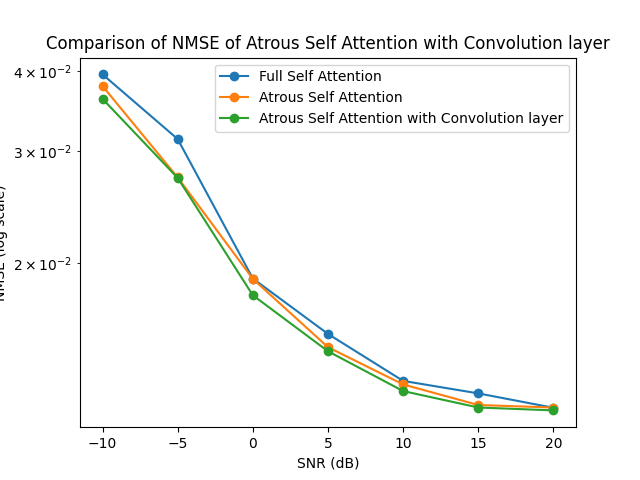
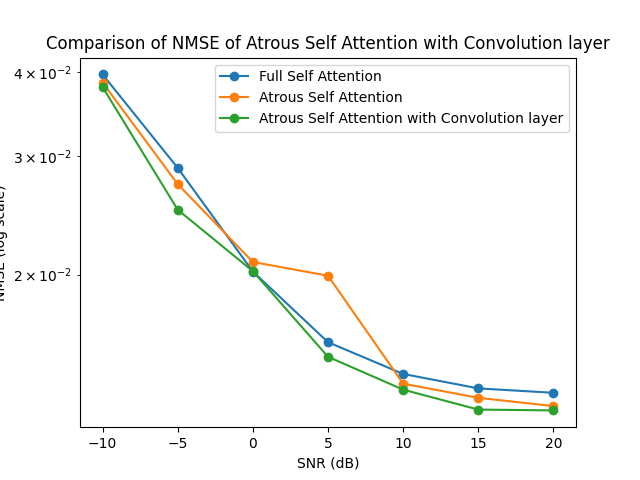
message

diff --git a/SPR-CNN/result-fft.py b/SPR-CNN/result-fft.py
@@ -6,32 +6,26 @@ x = [-10, -5, 0, 5, 10, 15, 20]
 # CNN, epochs = 200, lr = 0.0001, batch_size = 32
 y1 = [0.6419357114932095, 0.3948697806398535, 0.2653386565881674, 0.16621672269013613, 0.12786874896302208, 0.1266478453073014, 0.11196449103168699]
 
-# Transformers(Encoder * 2 + Decoder * 2, (16 * 32 * 4)), epochs = 200, lr = 0.0001, batch_size = 32
+# Transformers(Encoder * 2 + Decoder * 2, (16 * 32 * 4)), epochs = 400, lr = 0.0001, batch_size = 32
 # 自己寫的 multi-head self attention, Atrous Self Attention, ff layer 用 Conv1D
-y4 = [0.03621919825673103, 0.0272029098123312, 0.017789877951145172, 0.014526165090501308, 0.012576806358993053, 0.011850962415337563, 0.011727375909686089]
+y2 = [0.03798374906182289, 0.024973848834633827, 0.020242398604750633, 0.015106507577002048, 0.013501455076038837, 0.012612905353307724, 0.012577512301504612]
 
-# Transformers(Encoder * 2 + Decoder * 2, (16 * 32 * 4)), epochs = 200, lr = 0.0001, batch_size = 32
-# 自己寫的 multi-head self attention, Atrous Self Attention, ff layer 用 Conv1D, 使用 BatchNormalization
-y5 = [0.05668972060084343, 0.028094256296753883, 0.020573817193508148, 0.028254395350813866, 0.02500385418534279, 0.020342955365777016, 0.0244763046503067]
-
-# Transformers(Encoder * 2 + Decoder * 2, (16 * 32 * 4)), epochs = 200, lr = 0.0001, batch_size = 32
-# 自己寫的 multi-head self attention, Atrous Self Attention, ff layer 用 Conv1D, change norm position
-y7 = [0.039442263543605804, 0.02432405948638916, 0.021599117666482925, 0.016517218202352524, 0.015613597817718983, 0.014050054363906384, 0.012439227662980556]
-
+# Not yet!
 # Transformers(Encoder * 2 + Decoder * 2, (16 * 32 * 4)), epochs = 200, lr = 0.0001, batch_size = 32
 # 自己寫的 multi-head self attention, Atrous Self Attention, ff layer 用 Conv1D, 使用 fft in multi-head-attention
-y8 = [0.04002300277352333, 0.025759074836969376, 0.028633849695324898, 0.01591109298169613, 0.01619063876569271, 0.014287014491856098, 0.013909406960010529]
+y3 = [0.04002300277352333, 0.025759074836969376, 0.028633849695324898, 0.01591109298169613, 0.01619063876569271, 0.014287014491856098, 0.013909406960010529]
 
+# Not yet!
 # Transformers(Encoder * 2 + Decoder * 2, (16 * 32 * 4)), epochs = 200, lr = 0.0001, batch_size = 32
 # 自己寫的 multi-head self attention, Atrous Self Attention, ff layer 用 Conv1D
-# modality-aware transformers
+# Modality-aware Transformer
+y4 = [0.04002300277352333, 0.025759074836969376, 0.028633849695324898, 0.01591109298169613, 0.01619063876569271, 0.014287014491856098, 0.013909406960010529]
 
 # draw
 # plt.plot(x, y1, marker='o', label='CNN')
-plt.plot(x, y4, marker='o', label='Atrous Self Attention with Convolution layer')
-# plt.plot(x, y5, marker='o', label='Atrous Self Attention with Convolution layer and BatchNormalization')
-# plt.plot(x, y7, marker='o', label='Atrous Self Attention with Convolution layer with changing norm position')
-plt.plot(x, y8, marker='o', label='Atrous Self Attention with Convolution layer with fft in multi-head-attention')
+plt.plot(x, y2, marker='o', label='Atrous Self Attention with Convolution layer')
+plt.plot(x, y3, marker='o', label='Atrous Self Attention with Convolution layer with fft in multi-head-attention')
+plt.plot(x, y4, marker='o', label='Modality-aware Transformer')
 
 
 # set y-axis to log scale
@@ -58,32 +52,26 @@ x = [-10, -5, 0, 5, 10, 15, 20]
 # CNN, epochs = 200, lr = 0.0001, batch_size = 32
 y1 = [12.376030106733767, 13.813554657995969, 14.51362168247246, 15.027294189530807, 15.221216724747757, 15.227348121333408, 15.300884747531022]
 
-# Transformers(Encoder * 2 + Decoder * 2, (16 * 32 * 4)), epochs = 200, lr = 0.0001, batch_size = 32
+# Transformers(Encoder * 2 + Decoder * 2, (16 * 32 * 4)), epochs = 400, lr = 0.0001, batch_size = 32
 # 自己寫的 multi-head self attention, Atrous Self Attention, ff layer 用 Conv1D
-y4 = [15.523851843084003, 15.605638873813945, 15.690533174195762, 15.71985169518842, 15.73733479108248, 15.74383919925955, 15.744946353832843]
+y2 = [15.507790908162843, 15.625787491983507, 15.668462428433932, 15.714642721214037, 15.729044567012842, 15.73701119848958, 15.737328425151173]
 
-# Transformers(Encoder * 2 + Decoder * 2, (16 * 32 * 4)), epochs = 200, lr = 0.0001, batch_size = 32
-# 自己寫的 multi-head self attention, Atrous Self Attention, ff layer 用 Conv1D, 使用 BatchNormalization
-y5 = [15.336422811727001, 15.597574072960933, 15.665477346013974, 15.596124639155295, 15.625516490153341, 15.667556703768637, 15.630281030850368]
-
-# Transformers(Encoder * 2 + Decoder * 2, (16 * 32 * 4)), epochs = 200, lr = 0.0001, batch_size = 32
-# 自己寫的 multi-head self attention, Atrous Self Attention, ff layer 用 Conv1D, change norm position
-y7 = [15.494502152019606, 15.631655688035869, 15.65623851411047, 15.701972776773513, 15.710089680065902, 15.724123697543275, 15.738567858253838]
-
+# Not yet!
 # Transformers(Encoder * 2 + Decoder * 2, (16 * 32 * 4)), epochs = 200, lr = 0.0001, batch_size = 32
 # 自己寫的 multi-head self attention, Atrous Self Attention, ff layer 用 Conv1D, 使用 fft in multi-head-attention
-y8 = [15.489207487952974, 15.618692996837884, 15.592689694203141, 15.707417936913393, 15.704906880100955, 15.721997719195706, 15.725385431670285]
+y3 = [15.489207487952974, 15.618692996837884, 15.592689694203141, 15.707417936913393, 15.704906880100955, 15.721997719195706, 15.725385431670285]
 
+# Not yet!
 # Transformers(Encoder * 2 + Decoder * 2, (16 * 32 * 4)), epochs = 200, lr = 0.0001, batch_size = 32
 # 自己寫的 multi-head self attention, Atrous Self Attention, ff layer 用 Conv1D
-# modality-aware transformers
+# Modality-aware Transformer
+y4 = [15.489207487952974, 15.618692996837884, 15.592689694203141, 15.707417936913393, 15.704906880100955, 15.721997719195706, 15.725385431670285]
 
 # draw
 # plt.plot(x, y1, marker='o', label='CNN')
-plt.plot(x, y4, marker='o', label='Atrous Self Attention with Convolution layer')
-# plt.plot(x, y5, marker='o', label='Atrous Self Attention with Convolution layer and BatchNormalization')
-# plt.plot(x, y7, marker='o', label='Atrous Self Attention with Convolution layer with changing norm position')
-plt.plot(x, y8, marker='o', label='Atrous Self Attention with Convolution layer with fft in multi-head-attention')
+plt.plot(x, y2, marker='o', label='Atrous Self Attention with Convolution layer')
+plt.plot(x, y3, marker='o', label='Atrous Self Attention with Convolution layer with fft in multi-head-attention')
+plt.plot(x, y4, marker='o', label='Modality-aware Transformer')
 
 # set y-axis to log scale
 plt.yscale('log')

diff --git a/SPR-CNN/result-sparse-attention-and-convolution.py b/SPR-CNN/result-sparse-attention-and-convolution.py
@@ -7,20 +7,22 @@ x = [-10, -5, 0, 5, 10, 15, 20]
 # reshape type = (Nr, Nt, channel)
 # 自己寫的 multi-head attention
 # Full Self Attention
-y1 = [0.03957320749759674, 0.0313139446079731, 0.018902089446783066, 0.015466086566448212, 0.013048394583165646, 0.012472232803702354, 0.01183935534209013]
+y1 = [0.03965744748711586, 0.028810562565922737, 0.02021711692214012, 0.015879059210419655, 0.01424616202712059, 0.013560600578784943, 0.013357477262616158]
 
 # Transformers(Encoder * 2 + Decoder * 2), epochs = 200, lr = 0.0001, batch_size = 32
 # reshape type = (Nr, Nt, channel)
 # 自己寫的 multi-head attention
 # Atrous Self Attention
-y2 = [0.03793514147400856, 0.02725178748369217, 0.018875764682888985, 0.014742224477231503, 0.012882505543529987, 0.011958373710513115, 0.011849570088088512]
+y2 = [0.03856229782104492, 0.027260668575763702, 0.020888376981019974, 0.019930638372898102, 0.013781104236841202, 0.013130326755344868, 0.012763812206685543]
 
+# Not yet!
 # Transformers(Encoder * 2 + Decoder * 2), epochs = 200, lr = 0.0001, batch_size = 32
 # reshape type = (Nr, Nt, channel)
 # 自己寫的 multi-head attention
 # Local Self Attention
 y3 = [0.03928970918059349, 0.028576577082276344, 0.02001512609422207, 0.015685435384511948, 0.013992800377309322, 0.013519784435629845, 0.013477599248290062]
 
+# Not yet!
 # Transformers(Encoder * 2 + Decoder * 2), epochs = 200, lr = 0.0001, batch_size = 32
 # reshape type = (Nr, Nt, channel)
 # 自己寫的 multi-head attention
@@ -58,20 +60,22 @@ x = [-10, -5, 0, 5, 10, 15, 20]
 # reshape type = (Nr, Nt, channel)
 # 自己寫的 multi-head attention
 # Full Self Attention
-y1 = [15.493308527872895, 15.568404974771003, 15.680528308855868, 15.711414292671664, 15.733107185589379, 15.73827208055814, 15.74394318113315]
+y1 = [15.492540660394557, 15.59108972424448, 15.668690136608705, 15.707705615158078, 15.722364224883243, 15.72851409896477, 15.730335747297762]
 
 # Transformers(Encoder * 2 + Decoder * 2), epochs = 200, lr = 0.0001, batch_size = 32
 # reshape type = (Nr, Nt, channel)
 # 自己寫的 multi-head attention
 # Atrous Self Attention
-y2 = [15.50823359352834, 15.605196758612788, 15.680765231318805, 15.717912628820924, 15.734594474390205, 15.742876849423679, 15.743851673854186]
+y2 = [15.502521089647496, 15.60511641373273, 15.662643520026297, 15.671269878086171, 15.72653634091522, 15.732372591531984, 15.735658495479676]
 
+# Not yet!
 # Transformers(Encoder * 2 + Decoder * 2), epochs = 200, lr = 0.0001, batch_size = 32
 # reshape type = (Nr, Nt, channel)
 # 自己寫的 multi-head attention
 # Local Self Attention
 y3 = [15.495892652680121, 15.593208143779389, 15.670509142513932, 15.709444554223042, 15.724637358010378, 15.728880197789383, 15.729258483011803]
 
+# Not yet!
 # Transformers(Encoder * 2 + Decoder * 2), epochs = 200, lr = 0.0001, batch_size = 32
 # reshape type = (Nr, Nt, channel)
 # 自己寫的 multi-head attention
@@ -128,17 +132,17 @@ y1 = [0.6419357114932095, 0.3948697806398535, 0.2653386565881674, 0.166216722690
 # reshape type = (Nr, Nt, channel)
 # 自己寫的 multi-head attention
 # Full Self Attention
-y2 = [0.03957320749759674, 0.0313139446079731, 0.018902089446783066, 0.015466086566448212, 0.013048394583165646, 0.012472232803702354, 0.01183935534209013]
+y2 = [0.03965744748711586, 0.028810562565922737, 0.02021711692214012, 0.015879059210419655, 0.01424616202712059, 0.013560600578784943, 0.013357477262616158]
 
 # Transformers(Encoder * 2 + Decoder * 2), epochs = 200, lr = 0.0001, batch_size = 32
 # reshape type = (Nr, Nt, channel)
 # 自己寫的 multi-head attention
 # Atrous Self Attention
-y3 = [0.03793514147400856, 0.02725178748369217, 0.018875764682888985, 0.014742224477231503, 0.012882505543529987, 0.011958373710513115, 0.011849570088088512]
+y3 = [0.03856229782104492, 0.027260668575763702, 0.020888376981019974, 0.019930638372898102, 0.013781104236841202, 0.013130326755344868, 0.012763812206685543]
 
 # Transformers(Encoder * 2 + Decoder * 2, (16 * 32 * 4)), epochs = 400, lr = 0.0001, batch_size = 32
 # 自己寫的 multi-head self attention, Atrous Self Attention, ff layer 用 Conv1D
-y4 = [0.03621919825673103, 0.0272029098123312, 0.017789877951145172, 0.014526165090501308, 0.012576806358993053, 0.011850962415337563, 0.011727375909686089]
+y4 = [0.03798374906182289, 0.024973848834633827, 0.020242398604750633, 0.015106507577002048, 0.013501455076038837, 0.012612905353307724, 0.012577512301504612]
 
 # draw
 # plt.plot(x, y1, marker='o', label='CNN')
@@ -174,17 +178,17 @@ y1 = [12.376030106733767, 13.813554657995969, 14.51362168247246, 15.027294189530
 # reshape type = (Nr, Nt, channel)
 # 自己寫的 multi-head attention
 # Full Self Attention
-y2 = [15.493308527872895, 15.568404974771003, 15.680528308855868, 15.711414292671664, 15.733107185589379, 15.73827208055814, 15.74394318113315]
+y2 = [15.492540660394557, 15.59108972424448, 15.668690136608705, 15.707705615158078, 15.722364224883243, 15.72851409896477, 15.730335747297762]
 
 # Transformers(Encoder * 2 + Decoder * 2), epochs = 200, lr = 0.0001, batch_size = 32
 # reshape type = (Nr, Nt, channel)
 # 自己寫的 multi-head attention
 # Atrous Self Attention
-y3 = [15.50823359352834, 15.605196758612788, 15.680765231318805, 15.717912628820924, 15.734594474390205, 15.742876849423679, 15.743851673854186]
+y3 = [15.502521089647496, 15.60511641373273, 15.662643520026297, 15.671269878086171, 15.72653634091522, 15.732372591531984, 15.735658495479676]
 
 # Transformers(Encoder * 2 + Decoder * 2, (16 * 32 * 4)), epochs = 400, lr = 0.0001, batch_size = 32
 # 自己寫的 multi-head self attention, Atrous Self Attention, ff layer 用 Conv1D
-y4 = [15.523851843084003, 15.605638873813945, 15.690533174195762, 15.71985169518842, 15.73733479108248, 15.74383919925955, 15.744946353832843]
+y4 = [15.507790908162843, 15.625787491983507, 15.668462428433932, 15.714642721214037, 15.729044567012842, 15.73701119848958, 15.737328425151173]
 
 # draw
 # plt.plot(x, y1, marker='o', label='CNN')

diff --git a/SPR-CNN/result-basic-transformers.py b/SPR-CNN/result-basic-transformers.py
@@ -5,20 +5,14 @@ x = [-10, -5, 0, 5, 10, 15, 20]
 # CNN, epochs = 200, lr = 0.0001, batch_size = 32
 y1 = [0.6419357114932095, 0.3948697806398535, 0.2653386565881674, 0.16621672269013613, 0.12786874896302208, 0.1266478453073014, 0.11196449103168699]
 
-# Transformers(Encoder * 9), epochs = 200, lr = 0.0001, batch_size = 32
-# reshape type = (Nr, Nt, channel)
-# 自己寫的 multi-head attention
-y2 = [0.039898015558719635, 0.039575472474098206, 0.03917403519153595, 0.01579899713397026, 0.015518935397267342, 0.015378423035144806, 0.013160046190023422]
-
 # Transformers(Encoder * 2 + Decoder * 2), epochs = 200, lr = 0.0001, batch_size = 32
 # reshape type = (Nr, Nt, channel)
 # 自己寫的 multi-head attention
-y3 = [0.03957320749759674, 0.0313139446079731, 0.018902089446783066, 0.015466086566448212, 0.013048394583165646, 0.012472232803702354, 0.01183935534209013]
+y2 = [0.03965744748711586, 0.028810562565922737, 0.02021711692214012, 0.015879059210419655, 0.01424616202712059, 0.013560600578784943, 0.013357477262616158]
 
 # draw
 plt.plot(x, y1, marker='o', label='CNN')
-# plt.plot(x, y2, marker='o', label='Transformers(Encoder)')
-plt.plot(x, y3, marker='o', label='Transformers')
+plt.plot(x, y2, marker='o', label='Transformers')
 
 # add title and axis labels
 plt.title('Comparison of NMSE of CNN and Transformers')
@@ -40,20 +34,14 @@ x = [-10, -5, 0, 5, 10, 15, 20]
 # CNN, epochs = 200, lr = 0.0001, batch_size = 32
 y1 = [12.376030106733767, 13.813554657995969, 14.51362168247246, 15.027294189530807, 15.221216724747757, 15.227348121333408, 15.300884747531022]
 
-# Transformers(Encoder * 9), epochs = 200, lr = 0.0001, batch_size = 32
-# reshape type = (Nr, Nt, channel)
-# 自己寫的 multi-head attention
-y2 = [15.490347333089433, 15.493287869347391, 15.496947047258363, 15.708424724468355, 15.710939771297618, 15.712201425164704, 15.732106112054788]
-
 # Transformers(Encoder * 2 + Decoder * 2), epochs = 200, lr = 0.0001, batch_size = 32
 # reshape type = (Nr, Nt, channel)
 # 自己寫的 multi-head attention
-y3 = [15.493308527872895, 15.568404974771003, 15.680528308855868, 15.711414292671664, 15.733107185589379, 15.73827208055814, 15.74394318113315]
+y2 = [15.492540660394557, 15.59108972424448, 15.668690136608705, 15.707705615158078, 15.722364224883243, 15.72851409896477, 15.730335747297762]
 
 # draw
 plt.plot(x, y1, marker='o', label='CNN')
-# plt.plot(x, y2, marker='o', label='Transformers(Encoder)')
-plt.plot(x, y3, marker='o', label='Transformers')
+plt.plot(x, y2, marker='o', label='Transformers')
 
 # add title and axis labels
 plt.title('Comparison of sum rate of CNN and Transformers')

diff --git a/SPR-CNN/main.py b/SPR-CNN/main.py
@@ -330,9 +330,11 @@ H_test = Add()([H_test, position_encoding2])
 
 enc_output = None
 
-# Transformer Encoder Layer
-for _ in range(encoder_block_num):  # Repeat the encoder encoder_block_num times
 
+for _ in range(encoder_block_num):  # Repeat the encoder encoder_block_num times
+    
+    # Transformer Encoder Layer
+    
     # Multi_Head_Attention
     Multi_Head_Attentionn = Multi_Head_Attention(d_k=key_dim_num, d_v=key_dim_num, d_model=key_dim_num, num_heads = num_heads)
     attn_output = Multi_Head_Attentionn(x)
@@ -347,10 +349,9 @@ for _ in range(encoder_block_num):  # Repeat the encoder encoder_block_num times
     x = Add()([x, ff_output])
     x = LayerNormalization(epsilon=1e-6)(x)
 
-enc_output = x
+    enc_output = x
 
-# Transformer Decoder Layer
-for _ in range(decoder_block_num):  # Repeat the decoder decoder_block_num times
+    # Transformer Decoder Layer
 
     # sequence mask
     mask = tf.sequence_mask([8192/key_dim_num], maxlen=8192/key_dim_num, dtype=tf.float32)

diff --git a/SPR-CNN/sparse_attention.py b/SPR-CNN/sparse_attention.py
@@ -81,6 +81,11 @@ class Multi_Head_Attention(tf.keras.layers.Layer):
         # Process each head iteratively
         for i in range(self.num_heads):
 
+            #if i == 3:
+            #    inputs = fft(inputs)
+            #if i == 3 and enc_output is not None:
+            #    enc_output = fft(enc_output)
+
             Q = tf.matmul(inputs, self.Wq[i])  # (B, L, d_k)
 
             if enc_output is not None:
@@ -112,6 +117,7 @@ class Multi_Head_Attention(tf.keras.layers.Layer):
             # Sum up the outputs of all heads
             total_output += output
         
+        # total_output = ifft(total_output)
         total_output = total_output / self.num_heads
         
         return total_output
